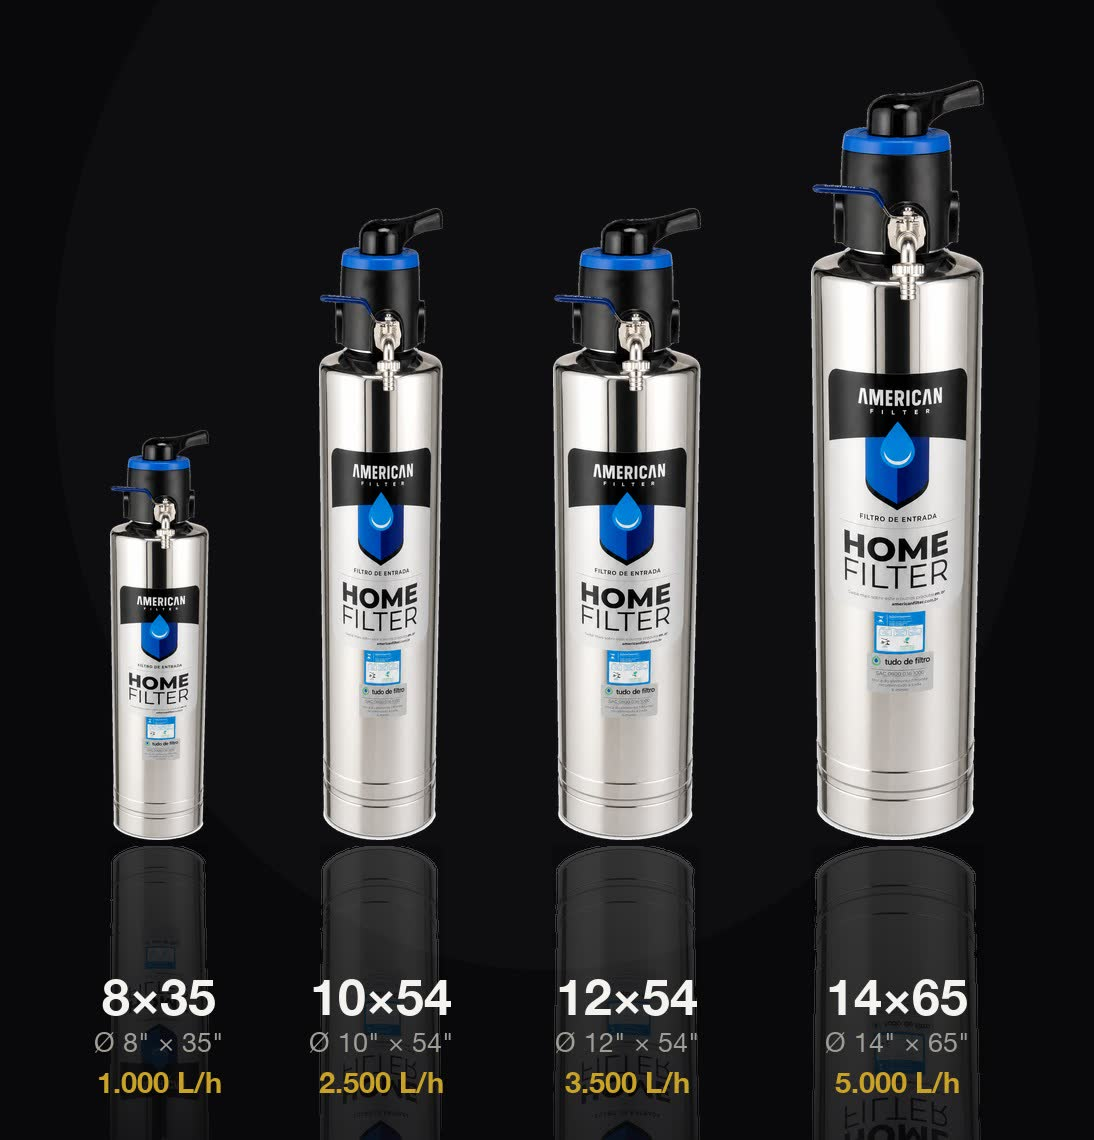
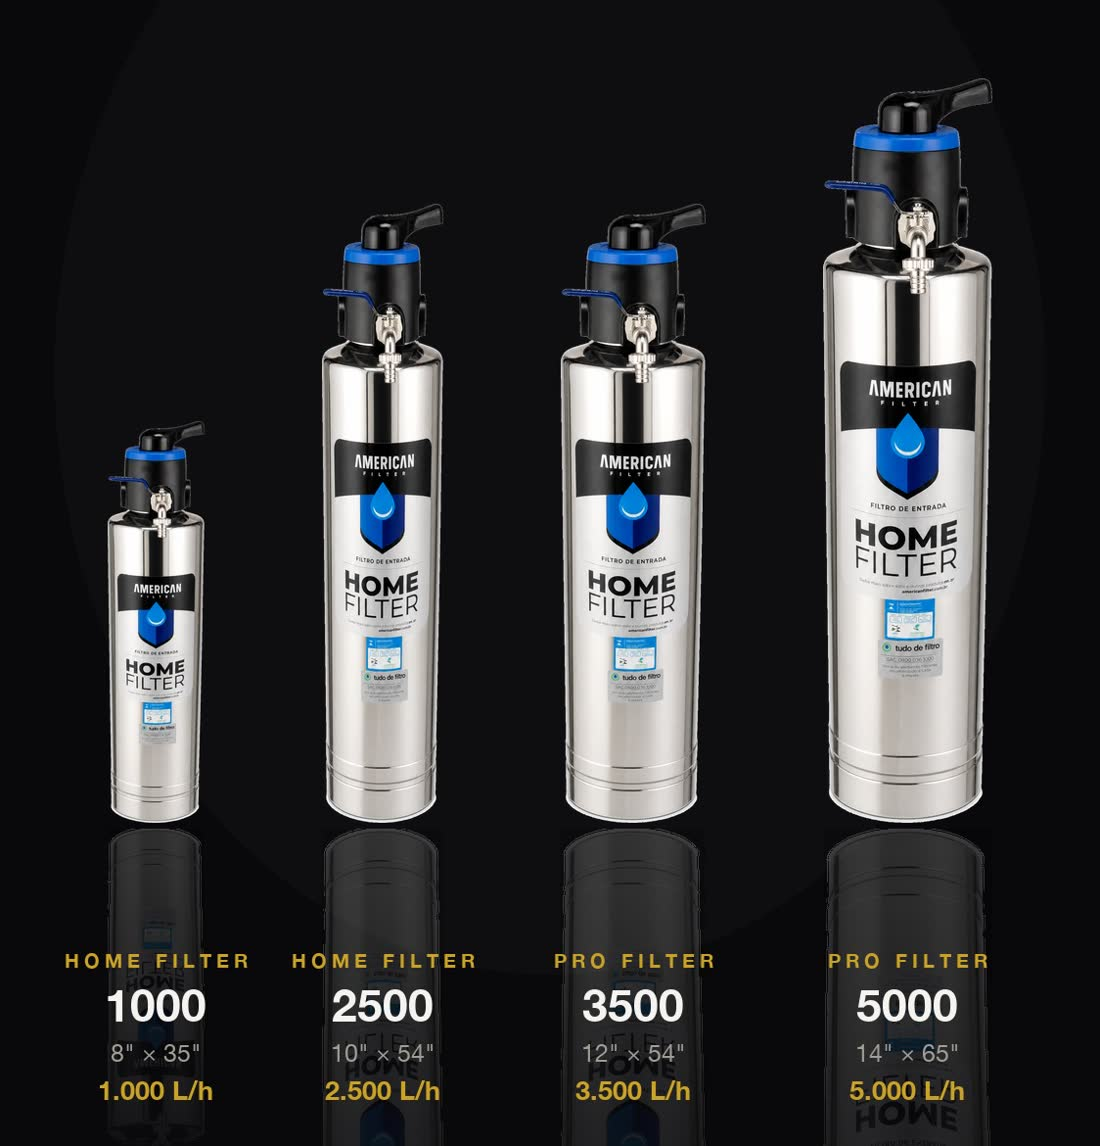
Nomes comerciais (Home Filter 1000/2500, Pro Filter 3500/5000) em todo o site+PDF; visualizador 360 de arrastar com escala por modelo

diff --git a/js/main.js b/js/main.js
@@ -32,10 +32,10 @@
 
   // ---- Linha de produtos ----
   var MODELS = [
-    {name:"8×35",  dim:'Ø 8" × 35" &nbsp;·&nbsp; Ø 20,3 × 88,9 cm',   flow:"até 1.000 litros/hora", desc:"Ideal para residências e comércios.", d:8, h:35},
-    {name:"10×54", dim:'Ø 10" × 54" &nbsp;·&nbsp; Ø 25,4 × 137,2 cm', flow:"até 2.500 litros/hora", desc:"Apartamentos e casas de porte médio, com fluxo constante.", d:10, h:54},
-    {name:"12×54", dim:'Ø 12" × 54" &nbsp;·&nbsp; Ø 30,5 × 137,2 cm', flow:"até 3.500 litros/hora", desc:"Casas grandes e alto consumo, vários pontos sem queda de pressão.", d:12, h:54},
-    {name:"14×65", dim:'Ø 14" × 65" &nbsp;·&nbsp; Ø 35,6 × 165,1 cm', flow:"até 5.000 litros/hora", desc:"Residências amplas, comércio, indústria e condomínio.", d:14, h:65}
+    {name:"Home Filter 1000", dim:'8" × 35" &nbsp;·&nbsp; Ø 20,3 × 88,9 cm',   flow:"até 1.000 litros/hora", desc:"Ideal para residências e comércios.", d:8, h:35},
+    {name:"Home Filter 2500", dim:'10" × 54" &nbsp;·&nbsp; Ø 25,4 × 137,2 cm', flow:"até 2.500 litros/hora", desc:"Apartamentos e casas de porte médio, com fluxo constante.", d:10, h:54},
+    {name:"Pro Filter 3500",  dim:'12" × 54" &nbsp;·&nbsp; Ø 30,5 × 137,2 cm', flow:"até 3.500 litros/hora", desc:"Casas grandes e alto consumo, vários pontos sem queda de pressão.", d:12, h:54},
+    {name:"Pro Filter 5000",  dim:'14" × 65" &nbsp;·&nbsp; Ø 35,6 × 165,1 cm', flow:"até 5.000 litros/hora", desc:"Residências amplas, comércio, indústria e condomínio.", d:14, h:65}
   ];
   var mName=document.getElementById("mName"), mDim=document.getElementById("mDim"),
       mFlow=document.getElementById("mFlow"), mDesc=document.getElementById("mDesc");
@@ -65,6 +65,41 @@
       window.open("https://wa.me/" + WA + "?text=" + encodeURIComponent(msg), "_blank");
     });
   }
+
+  // ---- Visualizador 360° (arrastar) + escala por modelo ----
+  (function(){
+    var img = document.getElementById("spinImg");
+    var viewer = document.getElementById("viewer");
+    if(!img || !viewer) return;
+    var N = 36, srcs = [], idx = 0;
+    for(var i=1;i<=N;i++){
+      var name = "assets/img/spin/f" + (i<10?"0"+i:i) + ".jpg";
+      srcs.push(name); var pre = new Image(); pre.src = name;
+    }
+    function show(i){ idx = ((i % N) + N) % N; img.src = srcs[idx]; }
+    var dragging=false, startX=0, startIdx=0, auto=null, scaleStr="scale(0.78,0.78)";
+    img.style.transform = scaleStr;
+    function startAuto(){ stopAuto(); auto = setInterval(function(){ show(idx+1); }, 110); }
+    function stopAuto(){ if(auto){ clearInterval(auto); auto=null; } }
+    viewer.addEventListener("pointerdown", function(e){
+      dragging=true; startX=e.clientX; startIdx=idx; stopAuto();
+      try{ viewer.setPointerCapture(e.pointerId); }catch(_){}
+    });
+    window.addEventListener("pointermove", function(e){
+      if(!dragging) return; var dx = e.clientX - startX;
+      show(startIdx - Math.round(dx/12));
+    });
+    window.addEventListener("pointerup", function(){
+      if(dragging){ dragging=false; setTimeout(startAuto, 3000); }
+    });
+    // escala conforme o modelo selecionado (altura e diâmetro reais)
+    window.addEventListener("af:model", function(e){
+      var d=e.detail.d, h=e.detail.h;
+      scaleStr = "scale(" + (0.78*d/10).toFixed(3) + "," + (0.78*h/54).toFixed(3) + ")";
+      img.style.transform = scaleStr;
+    });
+    startAuto();
+  })();
 
   // ---- GSAP subtle parallax (optional) ----
   if(window.gsap && window.ScrollTrigger){

diff --git a/index.html b/index.html
@@ -20,7 +20,7 @@
 {"@context":"https://schema.org","@type":"Product","name":"American Filter — Filtro de Entrada de Água","image":"https://paulinhotdf.github.io/american-filter-site/assets/img/linha_proporcao.jpg","brand":{"@type":"Brand","name":"American Filter"},"manufacturer":{"@type":"Organization","name":"Tudo de Filtro"},"material":"Aço inox 304","description":"Filtro de entrada instalado no cavalete que trata toda a água do imóvel, retendo sedimentos de 5 a 15 mícrons (barro, areia, silte, lodo e ferrugem). Aço inox 304, elementos de quartzo e zeólita, válvula Runxin manual ou automática.","additionalProperty":[{"@type":"PropertyValue","name":"Certificação","value":"Inmetro"},{"@type":"PropertyValue","name":"Garantia","value":"10 anos"},{"@type":"PropertyValue","name":"Faixa de retenção","value":"5 a 15 mícrons"},{"@type":"PropertyValue","name":"Pressão de trabalho","value":"1 a 3 kgf/cm²"}],"hasMeasurement":[{"@type":"QuantitativeValue","name":"Vazão 8x35","value":1000,"unitText":"litros/hora"},{"@type":"QuantitativeValue","name":"Vazão 10x54","value":2500,"unitText":"litros/hora"},{"@type":"QuantitativeValue","name":"Vazão 12x54","value":3500,"unitText":"litros/hora"},{"@type":"QuantitativeValue","name":"Vazão 14x65","value":5000,"unitText":"litros/hora"}]}
 </script>
 <script type="application/ld+json">
-{"@context":"https://schema.org","@type":"FAQPage","mainEntity":[{"@type":"Question","name":"O que é um filtro de entrada de água?","acceptedAnswer":{"@type":"Answer","text":"É um filtro instalado no cavalete, junto ao hidrômetro, antes da caixa d'água. Toda a água que entra no imóvel passa por ele, garantindo água filtrada em todas as torneiras."}},{"@type":"Question","name":"O American Filter remove barro, areia e ferrugem?","acceptedAnswer":{"@type":"Answer","text":"Sim. Retém sedimentos de 5 a 15 mícrons: barro, areia, silte, lodo e ferrugem. Não remove bactérias, vírus ou substâncias dissolvidas."}},{"@type":"Question","name":"Qual a vazão e a pressão dos modelos do American Filter?","acceptedAnswer":{"@type":"Answer","text":"8x35 entrega 1.000 L/h, 10x54 entrega 2.500 L/h, 12x54 entrega 3.500 L/h e 14x65 entrega 5.000 L/h. A pressão de trabalho é de 1 a 3 kgf/cm² em todos os modelos."}},{"@type":"Question","name":"A válvula é manual ou automática?","acceptedAnswer":{"@type":"Answer","text":"As duas opções existem: válvula Runxin manual (linha F56) monocomando com by-pass, ou automática com retrolavagem programada por tempo a partir de 2 m³/h."}}]}
+{"@context":"https://schema.org","@type":"FAQPage","mainEntity":[{"@type":"Question","name":"O que é um filtro de entrada de água?","acceptedAnswer":{"@type":"Answer","text":"É um filtro instalado no cavalete, junto ao hidrômetro, antes da caixa d'água. Toda a água que entra no imóvel passa por ele, garantindo água filtrada em todas as torneiras."}},{"@type":"Question","name":"O American Filter remove barro, areia e ferrugem?","acceptedAnswer":{"@type":"Answer","text":"Sim. Retém sedimentos de 5 a 15 mícrons: barro, areia, silte, lodo e ferrugem. Não remove bactérias, vírus ou substâncias dissolvidas."}},{"@type":"Question","name":"Quais são os modelos, vazões e pressão do American Filter?","acceptedAnswer":{"@type":"Answer","text":"Home Filter 1000 (8x35, 1.000 L/h), Home Filter 2500 (10x54, 2.500 L/h), Pro Filter 3500 (12x54, 3.500 L/h) e Pro Filter 5000 (14x65, 5.000 L/h). Pressão de trabalho de 1 a 3 kgf/cm² em todos os modelos."}},{"@type":"Question","name":"A válvula é manual ou automática?","acceptedAnswer":{"@type":"Answer","text":"As duas opções existem: válvula Runxin manual (linha F56) monocomando com by-pass, ou automática com retrolavagem programada por tempo a partir de 2 m³/h."}}]}
 </script>
 </head>
 <body>
@@ -147,24 +147,22 @@
   </div>
   <div class="linha__stage">
     <div class="viewer" id="viewer">
-      <video class="viewer__media" autoplay loop muted playsinline poster="assets/img/unidade_view.jpg">
-        <source src="assets/video/unidade-giro.mp4" type="video/mp4" />
-        <img src="assets/img/unidade_view.jpg" alt="Filtro de entrada American Filter em aço inox 304 com rótulo Home Filter" />
-      </video>
+      <img class="viewer__media" id="spinImg" src="assets/img/spin/f00.jpg" alt="Filtro de entrada American Filter, gire 360°" draggable="false" />
+      <p class="viewer__hint">arraste para girar</p>
     </div>
     <div class="linha__panel">
       <div class="model" id="modelInfo">
-        <h3 class="model__name" id="mName">10×54</h3>
-        <p class="model__dim" id="mDim">Ø 10" × 54" &nbsp;·&nbsp; Ø 25,4 × 137,2 cm</p>
+        <h3 class="model__name" id="mName">Home Filter 2500</h3>
+        <p class="model__dim" id="mDim">10" × 54" &nbsp;·&nbsp; Ø 25,4 × 137,2 cm</p>
         <p class="model__flow" id="mFlow">até 2.500 litros/hora</p>
         <p class="model__press">Pressão de trabalho: 1 a 3 kgf/cm²</p>
         <p class="model__desc" id="mDesc">Apartamentos e casas de porte médio, com fluxo constante.</p>
       </div>
       <div class="model__tabs" id="modelTabs">
-        <button class="mtab" data-i="0">8×35</button>
-        <button class="mtab is-active" data-i="1">10×54</button>
-        <button class="mtab" data-i="2">12×54</button>
-        <button class="mtab" data-i="3">14×65</button>
+        <button class="mtab" data-i="0">Home 1000</button>
+        <button class="mtab is-active" data-i="1">Home 2500</button>
+        <button class="mtab" data-i="2">Pro 3500</button>
+        <button class="mtab" data-i="3">Pro 5000</button>
       </div>
       <a class="btn btn--gold" href="#" data-wa="Olá! Quero ajuda pra escolher o tamanho do American Filter pro meu imóvel.">Descobrir o tamanho ideal</a>
     </div>
@@ -181,12 +179,12 @@
   </div>
   <div class="ficha__wrap reveal">
     <table>
-      <thead><tr><th>Modelo</th><th>Ø × Altura (pol)</th><th>Ø × Altura (cm)</th><th>Vazão</th><th>Pressão de trabalho</th><th>Aplicação</th></tr></thead>
+      <thead><tr><th>Modelo</th><th>Medida (pol)</th><th>Medida (cm)</th><th>Vazão</th><th>Pressão de trabalho</th><th>Aplicação</th></tr></thead>
       <tbody>
-        <tr><td>8×35</td><td>8" × 35"</td><td>20,3 × 88,9 cm</td><td class="fflow">1.000 L/h</td><td>1 a 3 kgf/cm²</td><td>Residências e comércios</td></tr>
-        <tr><td>10×54</td><td>10" × 54"</td><td>25,4 × 137,2 cm</td><td class="fflow">2.500 L/h</td><td>1 a 3 kgf/cm²</td><td>Apartamentos e casas médias</td></tr>
-        <tr><td>12×54</td><td>12" × 54"</td><td>30,5 × 137,2 cm</td><td class="fflow">3.500 L/h</td><td>1 a 3 kgf/cm²</td><td>Casas grandes / alto consumo</td></tr>
-        <tr><td>14×65</td><td>14" × 65"</td><td>35,6 × 165,1 cm</td><td class="fflow">5.000 L/h</td><td>1 a 3 kgf/cm²</td><td>Amplas, comércio, indústria, condomínio</td></tr>
+        <tr><td>Home Filter 1000</td><td>8" × 35"</td><td>Ø 20,3 × 88,9 cm</td><td class="fflow">1.000 L/h</td><td>1 a 3 kgf/cm²</td><td>Residências e comércios</td></tr>
+        <tr><td>Home Filter 2500</td><td>10" × 54"</td><td>Ø 25,4 × 137,2 cm</td><td class="fflow">2.500 L/h</td><td>1 a 3 kgf/cm²</td><td>Apartamentos e casas médias</td></tr>
+        <tr><td>Pro Filter 3500</td><td>12" × 54"</td><td>Ø 30,5 × 137,2 cm</td><td class="fflow">3.500 L/h</td><td>1 a 3 kgf/cm²</td><td>Casas grandes / alto consumo</td></tr>
+        <tr><td>Pro Filter 5000</td><td>14" × 65"</td><td>Ø 35,6 × 165,1 cm</td><td class="fflow">5.000 L/h</td><td>1 a 3 kgf/cm²</td><td>Amplas, comércio, indústria, condomínio</td></tr>
       </tbody>
     </table>
   </div>
@@ -221,7 +219,7 @@
       <div class="form__row"><label>WhatsApp<input name="fone" required placeholder="(00) [phone redacted]" /></label></div>
       <div class="form__two">
         <label>Modelo de interesse
-          <select name="modelo"><option value="Ainda não sei">Ainda não sei</option><option>8×35 (1.000 L/h)</option><option>10×54 (2.500 L/h)</option><option>12×54 (3.500 L/h)</option><option>14×65 (5.000 L/h)</option></select>
+          <select name="modelo"><option value="Ainda não sei">Ainda não sei</option><option>Home Filter 1000 (1.000 L/h)</option><option>Home Filter 2500 (2.500 L/h)</option><option>Pro Filter 3500 (3.500 L/h)</option><option>Pro Filter 5000 (5.000 L/h)</option></select>
         </label>
         <label>Aplicação
           <select name="aplicacao"><option>Residência</option><option>Condomínio</option><option>Indústria / Comércio</option><option>Revenda</option></select>
@@ -302,7 +300,7 @@
   <div class="faq__list reveal">
     <details class="faq__item"><summary>O que é um filtro de entrada de água?</summary><p>É um filtro instalado no cavalete, junto ao hidrômetro, antes da caixa d'água. Toda a água que entra no imóvel passa por ele — garantindo água filtrada em todas as torneiras da casa.</p></details>
     <details class="faq__item"><summary>O American Filter remove barro, areia e ferrugem?</summary><p>Sim. Ele retém sedimentos de 5 a 15 mícrons: barro, areia, silte, lodo e ferrugem. Não remove bactérias, vírus ou substâncias dissolvidas, e não substitui purificadores para consumo.</p></details>
-    <details class="faq__item"><summary>Qual a vazão e a pressão de cada modelo?</summary><p>8×35 entrega até 1.000 L/h · 10×54 até 2.500 L/h · 12×54 até 3.500 L/h · 14×65 até 5.000 L/h. Pressão de trabalho de 1 a 3 kgf/cm² em todos os modelos.</p></details>
+    <details class="faq__item"><summary>Quais são os modelos, vazões e pressão?</summary><p>Home Filter 1000 (8"×35", 1.000 L/h) · Home Filter 2500 (10"×54", 2.500 L/h) · Pro Filter 3500 (12"×54", 3.500 L/h) · Pro Filter 5000 (14"×65", 5.000 L/h). Pressão de trabalho de 1 a 3 kgf/cm² em todos.</p></details>
     <details class="faq__item"><summary>A válvula é manual ou automática?</summary><p>Você escolhe. Versão manual Runxin (linha F56), monocomando com by-pass; ou versão automática, com retrolavagem programada por tempo, a partir de 2 m³/h.</p></details>
     <details class="faq__item"><summary>Precisa de manutenção?</summary><p>Pouca. A retrolavagem limpa a mídia (quartzo e zeólita) e devolve a vazão original. O corpo em aço inox 304 tem 10 anos de garantia.</p></details>
   </div>

diff --git a/catalogo-print.html b/catalogo-print.html
@@ -136,11 +136,11 @@
   <h2 class="ptitle">A medida certa para o seu consumo.</h2>
   <img class="full" src="assets/img/pdf/linha_proporcao.jpg" alt="comparativo dos modelos" style="height:100mm;object-fit:contain;background:#0c0c0d" />
   <table>
-    <tr><th>Modelo</th><th>Polegadas (Ø × alt.)</th><th>Centímetros</th><th>Vazão</th><th>Indicação</th></tr>
-    <tr><td class="model">8×35</td><td>Ø 8" × 35"</td><td class="mut">Ø 20,3 × 88,9 cm</td><td class="flow">1.000 L/h</td><td class="mut">Residências e comércios</td></tr>
-    <tr><td class="model">10×54</td><td>Ø 10" × 54"</td><td class="mut">Ø 25,4 × 137,2 cm</td><td class="flow">2.500 L/h</td><td class="mut">Apartamentos e casas médias</td></tr>
-    <tr><td class="model">12×54</td><td>Ø 12" × 54"</td><td class="mut">Ø 30,5 × 137,2 cm</td><td class="flow">3.500 L/h</td><td class="mut">Casas grandes / alto consumo</td></tr>
-    <tr><td class="model">14×65</td><td>Ø 14" × 65"</td><td class="mut">Ø 35,6 × 165,1 cm</td><td class="flow">5.000 L/h</td><td class="mut">Amplas, comércio, indústria, condomínio</td></tr>
+    <tr><th>Modelo</th><th>Medida (pol)</th><th>Medida (cm)</th><th>Vazão</th><th>Indicação</th></tr>
+    <tr><td class="model">Home Filter 1000</td><td>8" × 35"</td><td class="mut">Ø 20,3 × 88,9</td><td class="flow">1.000 L/h</td><td class="mut">Residências e comércios</td></tr>
+    <tr><td class="model">Home Filter 2500</td><td>10" × 54"</td><td class="mut">Ø 25,4 × 137,2</td><td class="flow">2.500 L/h</td><td class="mut">Apartamentos e casas médias</td></tr>
+    <tr><td class="model">Pro Filter 3500</td><td>12" × 54"</td><td class="mut">Ø 30,5 × 137,2</td><td class="flow">3.500 L/h</td><td class="mut">Casas grandes / alto consumo</td></tr>
+    <tr><td class="model">Pro Filter 5000</td><td>14" × 65"</td><td class="mut">Ø 35,6 × 165,1</td><td class="flow">5.000 L/h</td><td class="mut">Amplas, comércio, indústria, condomínio</td></tr>
   </table>
   <span class="pageno">05</span>
 </section>
@@ -168,11 +168,11 @@
     </div>
   </div>
   <table>
-    <tr><th>Modelo</th><th>Ø × Altura (pol)</th><th>Ø × Altura (cm)</th><th>Vazão</th><th>Pressão</th></tr>
-    <tr><td class="model">8×35</td><td>8" × 35"</td><td class="mut">20,3 × 88,9</td><td class="flow">1.000 L/h</td><td>1–3 kgf/cm²</td></tr>
-    <tr><td class="model">10×54</td><td>10" × 54"</td><td class="mut">25,4 × 137,2</td><td class="flow">2.500 L/h</td><td>1–3 kgf/cm²</td></tr>
-    <tr><td class="model">12×54</td><td>12" × 54"</td><td class="mut">30,5 × 137,2</td><td class="flow">3.500 L/h</td><td>1–3 kgf/cm²</td></tr>
-    <tr><td class="model">14×65</td><td>14" × 65"</td><td class="mut">35,6 × 165,1</td><td class="flow">5.000 L/h</td><td>1–3 kgf/cm²</td></tr>
+    <tr><th>Modelo</th><th>Medida (pol)</th><th>Medida (cm)</th><th>Vazão</th><th>Pressão</th></tr>
+    <tr><td class="model">Home Filter 1000</td><td>8" × 35"</td><td class="mut">20,3 × 88,9</td><td class="flow">1.000 L/h</td><td>1–3 kgf/cm²</td></tr>
+    <tr><td class="model">Home Filter 2500</td><td>10" × 54"</td><td class="mut">25,4 × 137,2</td><td class="flow">2.500 L/h</td><td>1–3 kgf/cm²</td></tr>
+    <tr><td class="model">Pro Filter 3500</td><td>12" × 54"</td><td class="mut">30,5 × 137,2</td><td class="flow">3.500 L/h</td><td>1–3 kgf/cm²</td></tr>
+    <tr><td class="model">Pro Filter 5000</td><td>14" × 65"</td><td class="mut">35,6 × 165,1</td><td class="flow">5.000 L/h</td><td>1–3 kgf/cm²</td></tr>
   </table>
   <span class="pageno">06</span>
 </section>

diff --git a/css/styles.css b/css/styles.css
@@ -114,14 +114,14 @@ em{font-style:italic;color:var(--gold-soft)}
 .linha{}
 .linha__stage{display:grid;grid-template-columns:1.15fr .85fr;gap:clamp(30px,5vw,70px);align-items:center}
 .viewer{position:relative;aspect-ratio:1/1;border:1px solid var(--line);border-radius:10px;
-  background:radial-gradient(circle at 50% 35%,#1b1b1f,#0b0b0c 70%);overflow:hidden}
-.viewer canvas{display:block;width:100%!important;height:100%!important}
-.viewer__fallback,.viewer__media{position:absolute;inset:0;width:100%;height:100%;object-fit:cover}
+  background:radial-gradient(circle at 50% 35%,#1b1b1f,#0b0b0c 70%);overflow:hidden;cursor:grab}
+.viewer:active{cursor:grabbing}
+.viewer__fallback,.viewer__media{position:absolute;inset:0;width:100%;height:100%;object-fit:cover;
+  transform-origin:bottom center;transition:transform .5s cubic-bezier(.2,.7,.2,1);
+  user-select:none;-webkit-user-drag:none}
 .viewer__hint{position:absolute;bottom:14px;left:0;right:0;text-align:center;font-size:.7rem;
-  letter-spacing:.2em;text-transform:uppercase;color:var(--mut);pointer-events:none;display:none}
-.viewer.is-3d .viewer__hint{display:block}
-.viewer.is-3d .viewer__fallback{display:none}
-.model__name{font-family:var(--serif);font-size:clamp(2.6rem,6vw,4.4rem);font-weight:500;line-height:1}
+  letter-spacing:.2em;text-transform:uppercase;color:var(--mut);pointer-events:none}
+.model__name{font-family:var(--serif);font-size:clamp(2.1rem,4.4vw,3.4rem);font-weight:500;line-height:1.04}
 .model__dim{color:var(--ink);margin-top:.6rem;letter-spacing:.02em}
 .model__flow{color:var(--gold);font-weight:500;margin-top:.2rem;font-size:1.1rem}
 .model__press{color:var(--mut);font-size:.85rem;margin-top:.25rem}